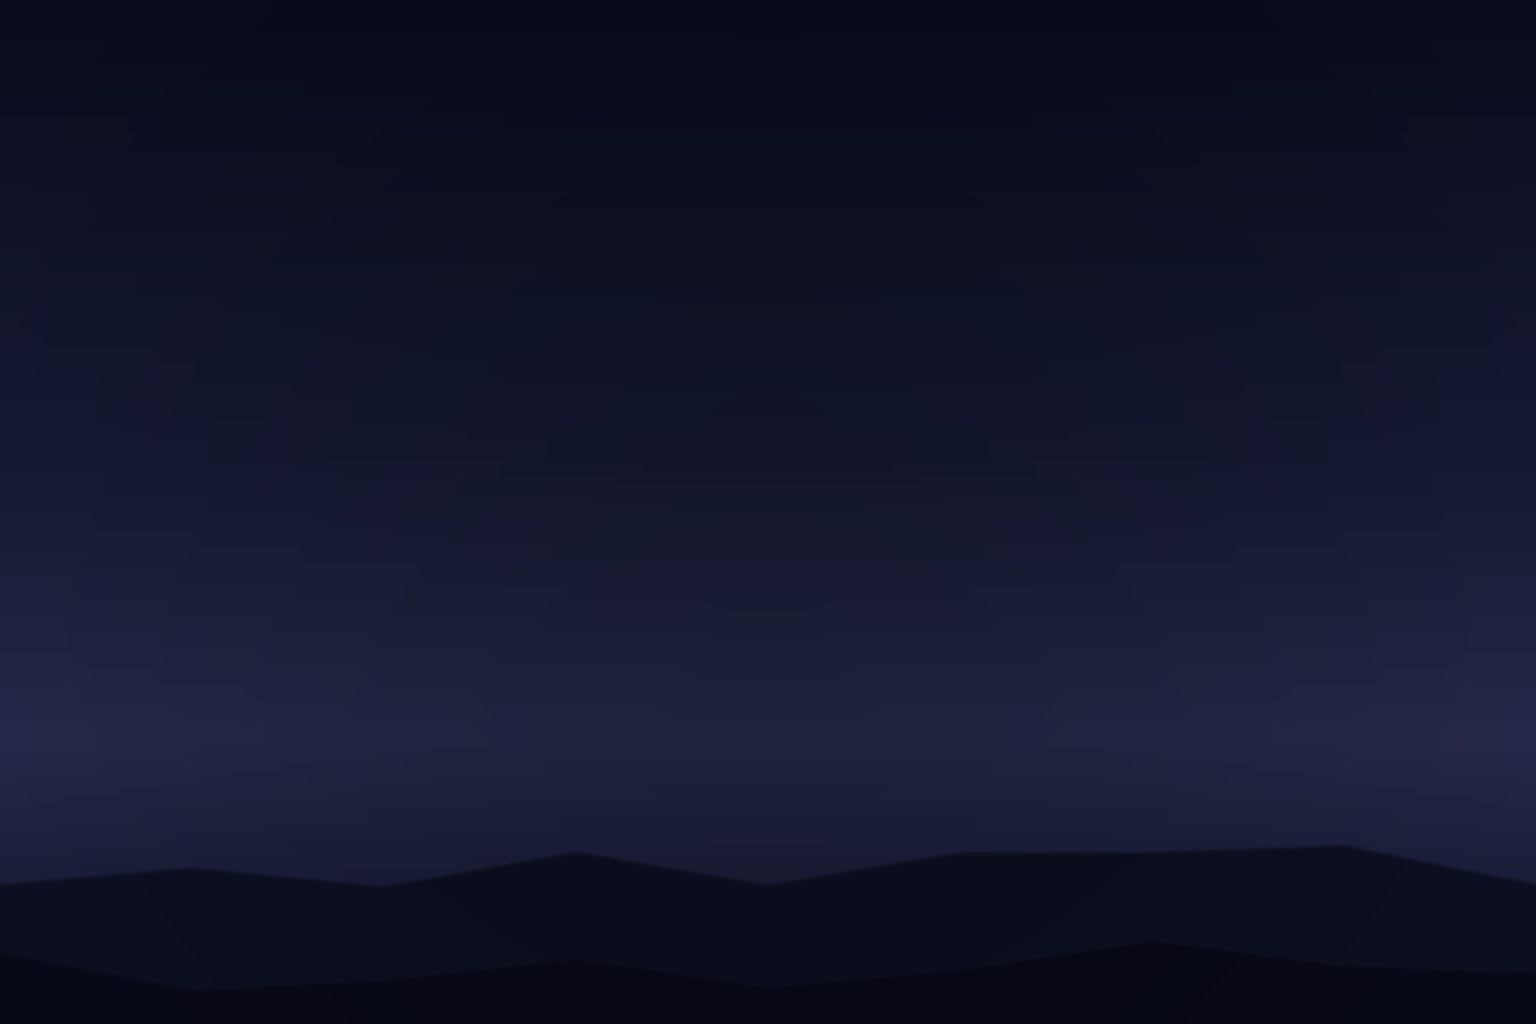
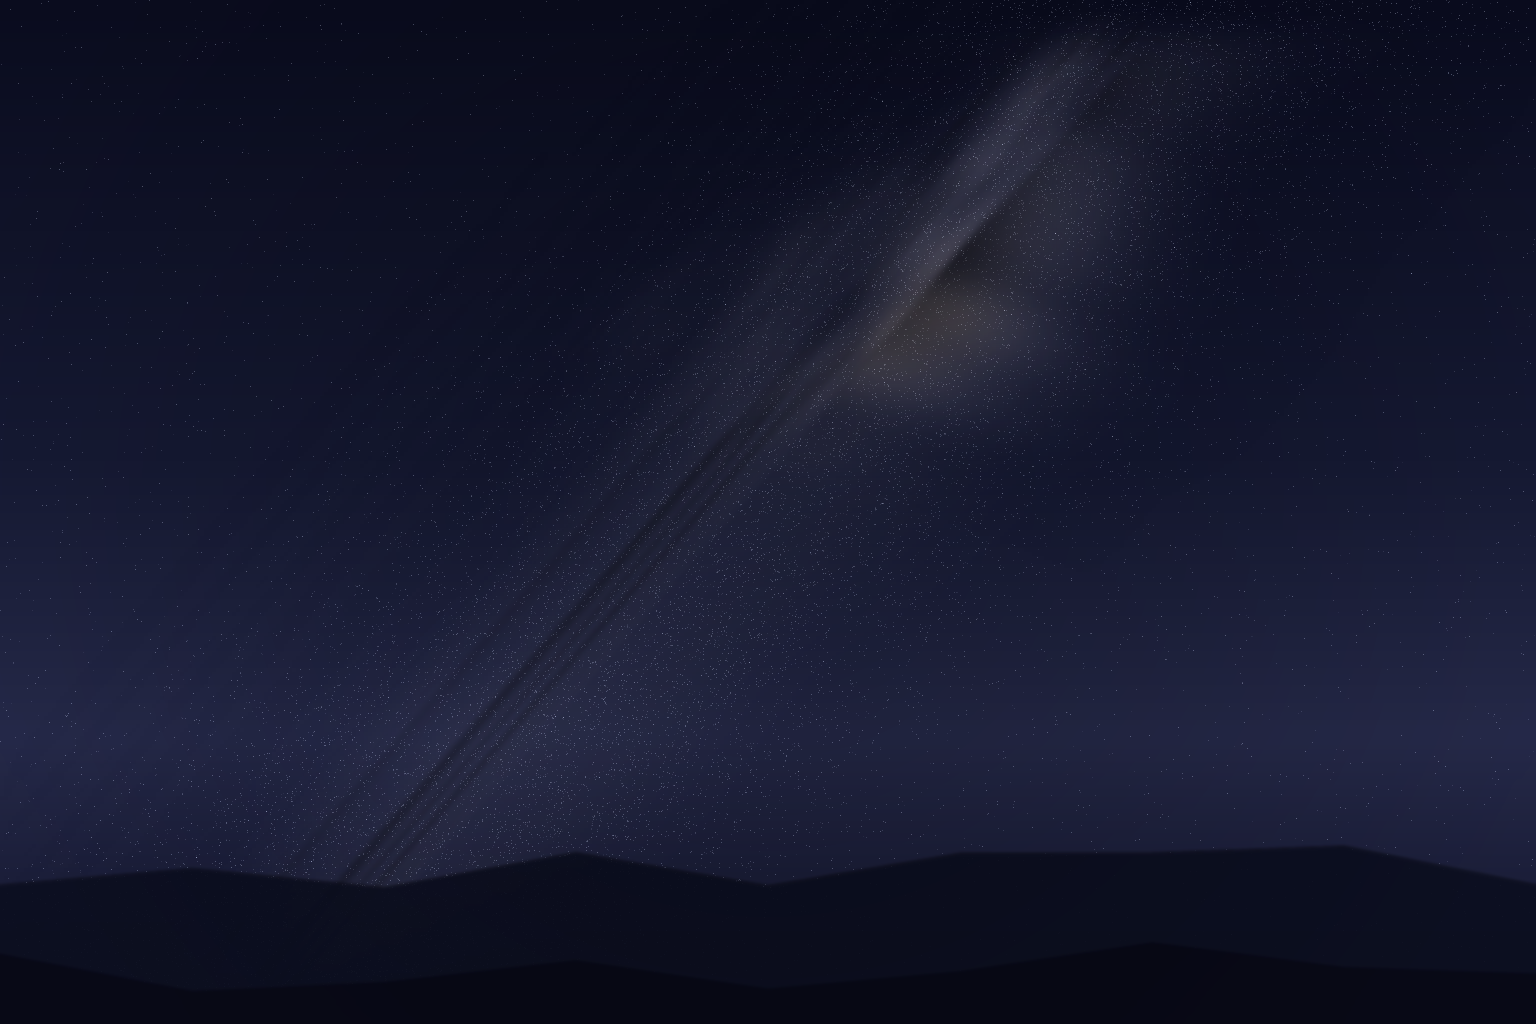
feat(scenes): 星夜底图银河重生 (Task 7) — 光带+尘埃暗隙+星点雾程序化烘焙, 用户 7 轮挑片裁定; 三层对齐与 export-stars/wgsl 构造级同源

Changed region(s): [[0.5, 0.0625, 0.7188, 0.4062]]

diff --git a/tools/export-scenes.py b/tools/export-scenes.py
@@ -32,7 +32,7 @@ import math
 import sys
 from pathlib import Path
 
-from PIL import Image, ImageDraw, ImageFilter
+from PIL import Image, ImageChops, ImageDraw, ImageFilter
 
 REPO_ROOT = Path(__file__).resolve().parent.parent
 OUT_DIR = REPO_ROOT / "assets" / "scenes"
@@ -296,6 +296,199 @@ def build_embers(count: int, color: tuple, seed: int) -> Image.Image:
     return overlay.filter(ImageFilter.GaussianBlur(radius=0.6))
 
 
+# ---------------------------------------------------------------------------
+# 银河 (星夜场景): 光带 + 尘埃暗隙 + 星点雾。
+# 光带中心线严格落在 py=0 — 与 export-stars.py 投影 (THETA/SHIFT/FOV) 和
+# background.wgsl galactic_py 同源常量, 三层 (底图光带 / 亮星带 / 暗星雾带)
+# 对齐靠构造保证而非事后测量。Task 8 调角/带宽时三处同步回填。
+# 灰度防线 (spec): 不烘焙可分辨亮星 — 星点雾全部单像素、增量封顶,
+# 可分辨亮星一律来自运行时星野纹理层 (烘焙星不闪 = 穿帮)。
+# ---------------------------------------------------------------------------
+
+
+def galactic_pxy(u: float, v: float, theta_deg: float, shift: tuple) -> tuple[float, float]:
+    """画面 UV → 银道面坐标 (px 沿带 / py 跨带), wgsl galactic_py 的 Python 镜像。
+
+    py=0 ⟺ 银道面 (光带中心线); px 沿带, 银心方向在 px = (0 - L_CENTER)/FOV_U。
+    """
+    t = math.radians(theta_deg)
+    rx = u - 0.5 - shift[0]
+    ry = 0.5 - v + shift[1]
+    px = rx * math.cos(t) + ry * math.sin(t)
+    py = -rx * math.sin(t) + ry * math.cos(t)
+    return px, py
+
+
+def _lcg(seed: int):
+    """与 build_ridges/build_embers 同款的确定性 LCG 序列。"""
+    state = seed
+    while True:
+        state = (state * 1103515245 + 12345) & 0x7FFFFFFF
+        yield (state >> 16) / 32768.0
+
+
+def _value_noise(cols: int, rows: int, seed: int) -> tuple[list, int, int]:
+    g = _lcg(seed)
+    return [next(g) for _ in range(cols * rows)], cols, rows
+
+
+def _noise_at(noise: tuple, x: float, y: float) -> float:
+    """双线性 + smoothstep 插值采样; x∈[0,cols), y∈[0,rows)。"""
+    grid, cols, rows = noise
+    x = min(max(x, 0.0), cols - 1e-4)
+    y = min(max(y, 0.0), rows - 1e-4)
+    x0, y0 = int(x), int(y)
+    x1, y1 = min(x0 + 1, cols - 1), min(y0 + 1, rows - 1)
+    fx = (x - x0) ** 2 * (3.0 - 2.0 * (x - x0))
+    fy = (y - y0) ** 2 * (3.0 - 2.0 * (y - y0))
+    a = grid[y0 * cols + x0]
+    b = grid[y0 * cols + x1]
+    c = grid[y1 * cols + x0]
+    d = grid[y1 * cols + x1]
+    return lerp(lerp(a, b, fx), lerp(c, d, fx), fy)
+
+
+def _fbm(noises: list, x: float, y: float, weights: tuple = (0.5, 0.3, 0.2)) -> float:
+    """多倍频值噪声叠加; noises 为 [(noise, sx, sy), ...], 返回 ~[0,1]。"""
+    return sum(
+        w * _noise_at(noise, x * sx, y * sy)
+        for (noise, sx, sy), w in zip(noises, weights)
+    )
+
+
+def _smoothstep(a: float, b: float, x: float) -> float:
+    t = min(1.0, max(0.0, (x - a) / (b - a)))
+    return t * t * (3.0 - 2.0 * t)
+
+
+def fbm3(noises: list, x: float, y: float) -> float:
+    """等权 N 倍频 fbm (len(noises) 归一), 无权重偏置, 返回 ~[0,1]。"""
+    return sum(_noise_at(n, x * sx, y * sy) for n, sx, sy in noises) / len(noises)
+
+
+def apply_milkyway(img: Image.Image, cfg: dict) -> Image.Image:
+    """把银河烘焙进星夜底图 (RGBA in/out, alpha 恒 255)。
+
+    合成顺序: ① 光带 screen 提亮 (低分辨率场 + LANCZOS 放大, 平滑元素惯例);
+    ② 星点雾单像素加点 (native res, 增量封顶); ③ 尘埃暗隙 multiply 压暗
+    (尘埃在星光之前, 暗隙同时吃掉光带与星点雾 — 物理次序)。
+    """
+    theta = cfg["theta_deg"]
+    shift = cfg["shift"]
+    half = cfg["band_half"]
+    gc_px = cfg["gc_px"]
+    falloff = cfg["along_falloff"]
+    floor = cfg["band_floor"]
+    gain = cfg["peak_gain"]
+
+    # 低分辨率光带/尘埃场 (平滑元素, 惯例不 SS)。
+    lw, lh = WIDTH // 4, HEIGHT // 4
+    band_noises = [
+        (_value_noise(24, 16, cfg["seed"] + 1), 6.0, 26.0),
+        (_value_noise(48, 32, cfg["seed"] + 2), 12.0, 52.0),
+        (_value_noise(96, 64, cfg["seed"] + 3), 24.0, 104.0),
+    ]
+    warp_noises = [
+        (_value_noise(16, 12, cfg["seed"] + 31), 2.5, 9.0),
+        (_value_noise(32, 24, cfg["seed"] + 32), 5.0, 18.0),
+        (_value_noise(64, 48, cfg["seed"] + 33), 10.0, 36.0),
+    ]
+    dust_noises = [
+        (_value_noise(24, 32, cfg["seed"] + 11), 4.0, 90.0),
+        (_value_noise(48, 64, cfg["seed"] + 12), 8.0, 180.0),
+        (_value_noise(96, 128, cfg["seed"] + 13), 16.0, 360.0),
+    ]
+    light = Image.new("RGB", (lw, lh))
+    dust = Image.new("L", (lw, lh))
+    light_px = light.load()
+    dust_px = dust.load()
+    for y in range(lh):
+        v = (y + 0.5) / lh
+        for x in range(lw):
+            u = (x + 0.5) / lw
+            px_, py = galactic_pxy(u, v, theta, shift)
+            # 负半带 (px<0 左下段 / py<0 银道面下侧) 噪声贴第 0 列/行采样:
+            # 单负半带结构只随单轴变化, 双负角区 (px<0 且 py<0) 两轴俱钉为
+            # 恒定 = 沿带拉伸的平滑观感 — 2026-08-03
+            # 用户多轮挑片裁定的审美, 显式保留 (评审曾作 Major 上报, 裁定为
+            # 有意不对称; Task 8 调参注意两半带对频率参数的响应不同)。
+            sx_, sy_ = max(px_, 0.0), max(py, 0.0)
+            # 域扭曲: 中心线低频摆动 + 边缘羽化, 破探照灯式直边。
+            warp = (fbm3(warp_noises, sx_, sy_) - 0.5) * 2.0 * cfg["warp_amp"]
+            py_w = py + warp
+            # 带宽沿路径起伏 (真实银河宽度不均, 破柏油马路感)。
+            width_n = 0.85 + 0.55 * (fbm3(warp_noises, px_ * 0.6 + 3.7, 11.3) - 0.5) * 2.0
+            half_w = half * min(1.45, max(0.60, width_n))
+            cross = math.exp(-((py_w / half_w) ** 2))
+            # 出画溶解: 带延伸到画布边时渐隐于天, 不成悬崖切片。
+            edge = min(u, 1.0 - u, v, 1.0 - v)
+            dissolve = _smoothstep(0.0, 0.07, edge)
+            along_n = 0.25 + 0.50 * fbm3(band_noises[:1], max(px_ * 0.5, 0.0), 0.0)
+            along = (floor + (1.0 - floor) * math.exp(-(((px_ - gc_px) / falloff) ** 2))) * along_n
+            # 带内斑驳结构 (亮星云气块状感)。
+            struct = 0.42 + 1.15 * max(0.0, _fbm(band_noises, sx_, sy_) - 0.26)
+            intensity = min(1.0, cross * along * struct * gain * dissolve)
+            warm_mix = math.exp(-(((px_ - gc_px) / 0.09) ** 2)) * math.exp(-((py_w / (half * 0.55)) ** 2))
+            color = lerp_rgb(cfg["core_color"], cfg["warm_color"], warm_mix)
+            light_px[x, y] = (
+                int(color[0] * intensity),
+                int(color[1] * intensity),
+                int(color[2] * intensity),
+            )
+            # 尘埃暗隙: 中线偏移的窄带 × 脊状噪声, 越靠银心越强 (大暗隙)。
+            lane = math.exp(-(((py_w - cfg["dust_offset"]) / cfg["dust_width"]) ** 2))
+            ridge = max(0.0, (_fbm(dust_noises, sx_, sy_) - 0.48) * 2.4)
+            dk = min(1.0, lane * ridge * (0.55 + 0.45 * along) * cfg["dust_strength"] * dissolve)
+            dust_px[x, y] = int(255 * (1.0 - dk))
+
+    light = light.resize(SIZE, Image.LANCZOS).filter(ImageFilter.GaussianBlur(radius=3))
+    dust = dust.resize(SIZE, Image.LANCZOS).filter(ImageFilter.GaussianBlur(radius=2.5))
+
+    rgb = ImageChops.screen(img.convert("RGB"), light)
+
+    # 星点雾: 单像素, 密度沿银道面聚集, 增量封顶 (灰度防线)。
+    g = _lcg(cfg["seed"] + 21)
+    cap = cfg["haze_alpha_max"]
+    pix = rgb.load()
+    placed = 0
+    attempts = cfg["haze_count"] * 3
+    for _ in range(attempts):
+        if placed >= cfg["haze_count"]:
+            break
+        u, v = next(g), next(g)
+        _, py = galactic_pxy(u, v, theta, shift)
+        accept = 0.06 + 0.94 * math.exp(-((py / (half * 1.5)) ** 2))
+        if next(g) > accept:
+            continue
+        delta = int(14 + next(g) * (cap - 14))
+        tint = 0.88 + next(g) * 0.12  # 蓝白微调 (0.88~1.0)
+        x, y = int(u * (WIDTH - 1)), int(v * (HEIGHT - 1))
+        r, gb, b = pix[x, y]
+        pix[x, y] = (
+            min(255, r + int(delta * tint)),
+            min(255, gb + int(delta * (0.5 + tint / 2))),
+            min(255, b + delta),
+        )
+        placed += 1
+
+    if placed < cfg["haze_count"]:
+        print(f"       WARNING: 星点雾投放 {placed}/{cfg['haze_count']} (接受率不足)")
+    rgb = ImageChops.multiply(rgb, dust.convert("RGB"))
+    out = rgb.convert("RGBA")
+
+    # 自检输出: 带心 vs 带外亮度采样 (供挑片数值参照)。
+    # 注意: (0.587, 0.320) 是银心在 theta/shift 下的反投影, Task 8 调角须联动。
+    def lum_at(u: float, v: float) -> float:
+        return luminance(out.convert("RGB").getpixel((int(u * (WIDTH - 1)), int(v * (HEIGHT - 1)))))
+
+    print(
+        f"       银河: 星点雾 {placed} 颗 (增量≤{cap}); "
+        f"带心(GC) lum={lum_at(0.587, 0.320):.4f} vs "
+        f"带外 lum={lum_at(0.12, 0.12):.4f}"
+    )
+    return out
+
+
 def sample_center_extremes(img: Image.Image) -> tuple[tuple, tuple]:
     """Brightest/darkest colors (by luminance) in the center region, after all baking."""
     x0, y0 = int(CENTER_BOX[0] * WIDTH), int(CENTER_BOX[1] * HEIGHT)
@@ -471,6 +664,27 @@ SCENES = [
             {"base_y": 0.97, "amp": 0.05, "color": (8, 9, 22), "alpha": 255, "seed": 0x502},
         ],
         "veil": {"color": (0, 0, 0), "center": (0.5, 0.48), "radius": 0.55, "peak": 50},
+        # 银河光带 + 尘埃暗隙 + 星点雾 (Task 7, spec: pomodoro-scene-starry-milkyway)。
+        # theta/shift/band_half/gc_px 与 export-stars.py 投影、background.wgsl
+        # galactic_py 同源 — Task 8 调参时三处同步, 不得只改一处。
+        "milkyway": {
+            "theta_deg": 60.0,      # = export-stars.py THETA_DEG
+            "shift": (0.0, -0.03),  # = export-stars.py SHIFT_X/Y
+            "band_half": 0.10,      # 跨带高斯半宽 (py) = wgsl HAZE_BAND
+            "gc_px": 45.0 / 260.0,  # 银心沿带坐标 = (0 - L_CENTER) / FOV_U
+            "along_falloff": 0.17,  # 沿带衰减 (px): 最亮段压银心 (UV.y≈0.32, 上 1/3)
+            "band_floor": 0.45,     # 远银心残余亮度 (带仍斜跨全天)
+            "peak_gain": 0.74,      # 光带峰值增益 (screen 提亮上限)
+            "core_color": (212, 208, 236),  # 带核心 (淡紫白, 冷)
+            "warm_color": (255, 226, 186),  # 银心暖调
+            "dust_offset": 0.025,   # 暗隙中线 py 偏移 (银道面一侧)
+            "dust_width": 0.045,    # 暗隙跨带宽度 (py)
+            "dust_strength": 1.0,  # 暗隙压暗强度
+            "warp_amp": 0.055,    # 中心线域扭曲幅度 (py): 破直边, 羽化带缘
+            "haze_count": 24000,    # 星点雾颗数 (单像素, 不可分辨)
+            "haze_alpha_max": 72,   # 星点雾增量封顶 (灰度防线: 不许可分辨亮星)
+            "seed": 0x57A9,
+        },
         "palette": {
             "base": (22, 26, 52),
             "accent": (255, 224, 160),
@@ -490,6 +704,9 @@ def build_scene(cfg: dict) -> Image.Image:
         img = Image.alpha_composite(
             img, radial_overlay(g["color"], g["center"], g["radius"], g["peak"])
         )
+    if "milkyway" in cfg:
+        # 银河在山脊之前烘焙: 山脊剪影遮挡带底 (带自山后升起)。
+        img = apply_milkyway(img, cfg["milkyway"])
     if "ridges" in cfg:
         img = Image.alpha_composite(img, build_ridges(cfg["ridges"]))
     if "waves" in cfg:

diff --git a/examples/pomodoro/scenes.rs b/examples/pomodoro/scenes.rs
@@ -87,8 +87,8 @@ pub const SCENES: [SceneSpec; 6] = [
             text_secondary: Color::from_srgb8(185, 192, 220),
             surface: Color::rgba(0.0, 0.0, 0.0, 0.25),
             surface_input: Color::rgba(0.0, 0.0, 0.0, 0.38),
-            backdrop_light: Color::from_srgb8(28, 32, 58),
-            backdrop_dark: Color::from_srgb8(16, 18, 39),
+            backdrop_light: Color::from_srgb8(60, 59, 71),
+            backdrop_dark: Color::from_srgb8(15, 18, 39),
         },
     },
 ];

diff --git a/tasks/todo-starry-milkyway.md b/tasks/todo-starry-milkyway.md
@@ -56,7 +56,11 @@
 
 ## Phase 3: 资产与对齐(Task 7 可与 Phase 1~2 并行)
 
-- [ ] **Task 7: AI 底图重生 + 挑片**
+- [x] **Task 7: AI 底图重生 + 挑片** ✅ 2026-08-03
+  - 产出: `export-scenes.py` 新增银河生成器(`apply_milkyway` + `galactic_pxy` + LCG 值噪声族),光带 screen 提亮 → 星点雾 24,000 颗单像素(增量≤72)→ 尘埃 multiply 压暗(物理次序:尘埃在星光前),山脊遮挡带底;`galactic_pxy` 与 wgsl `galactic_py` 逐符同源,三层对齐靠构造保证
+  - 挑片 7 轮: ①成带 ②破圆团全带连续 ③域扭曲破直边 ④出画溶解(悬崖切片修复)+摆幅/带宽起伏(柏油马路修复) ⑤银心-centric(B 版,用户否决) ⑥评审 bug 修复版(用户否决) ⑦收窄+压暗(用户否决) → **用户裁定回 A 版(轮 ④)**
+  - 评审 2 Major(负半带噪声 clamp 塌缩 / `_fbm` 权重截断)经用户裁定转为**有意不对称**: 显式化为 `max(px,0)/max(py,0)` 采样 + 等价 `along_n` 形式,裁定注释留痕(Task 8 调参警示);终审 APPROVE,重构后 cmp 逐比特验证与 A 版一致
+  - 验收: 构图契约全过(左下→右上/最亮段上 1/3/避开倒计时区/山脊保留/base 不变);灰度防线——无可分辨亮星,星点雾增量≤72 用户目测接受;对比度护栏全绿;其余 5 场景字节不变(确定性管线)
   - Description: 按 spec 构图契约重画星夜底图: 银河光带左下→右上斜跨、最亮段压上 1/3、避开中央倒计时区、底部两层山脊剪影保留、base (22,26,52) 不变。**灰度防线**: 无可分辨亮星(允许星点雾);"可分辨"阈值由用户裁定。经 `tools/export-scenes.py` 重新生成。
   - Acceptance: 用户挑片通过(多轮为预期成本);底图无可分辨亮星(逐张人工检查);`scenes.rs` 由生成器产出(不手改)
   - Verify: 人工挑片 + `cargo run --release --example pomodoro` 目测
